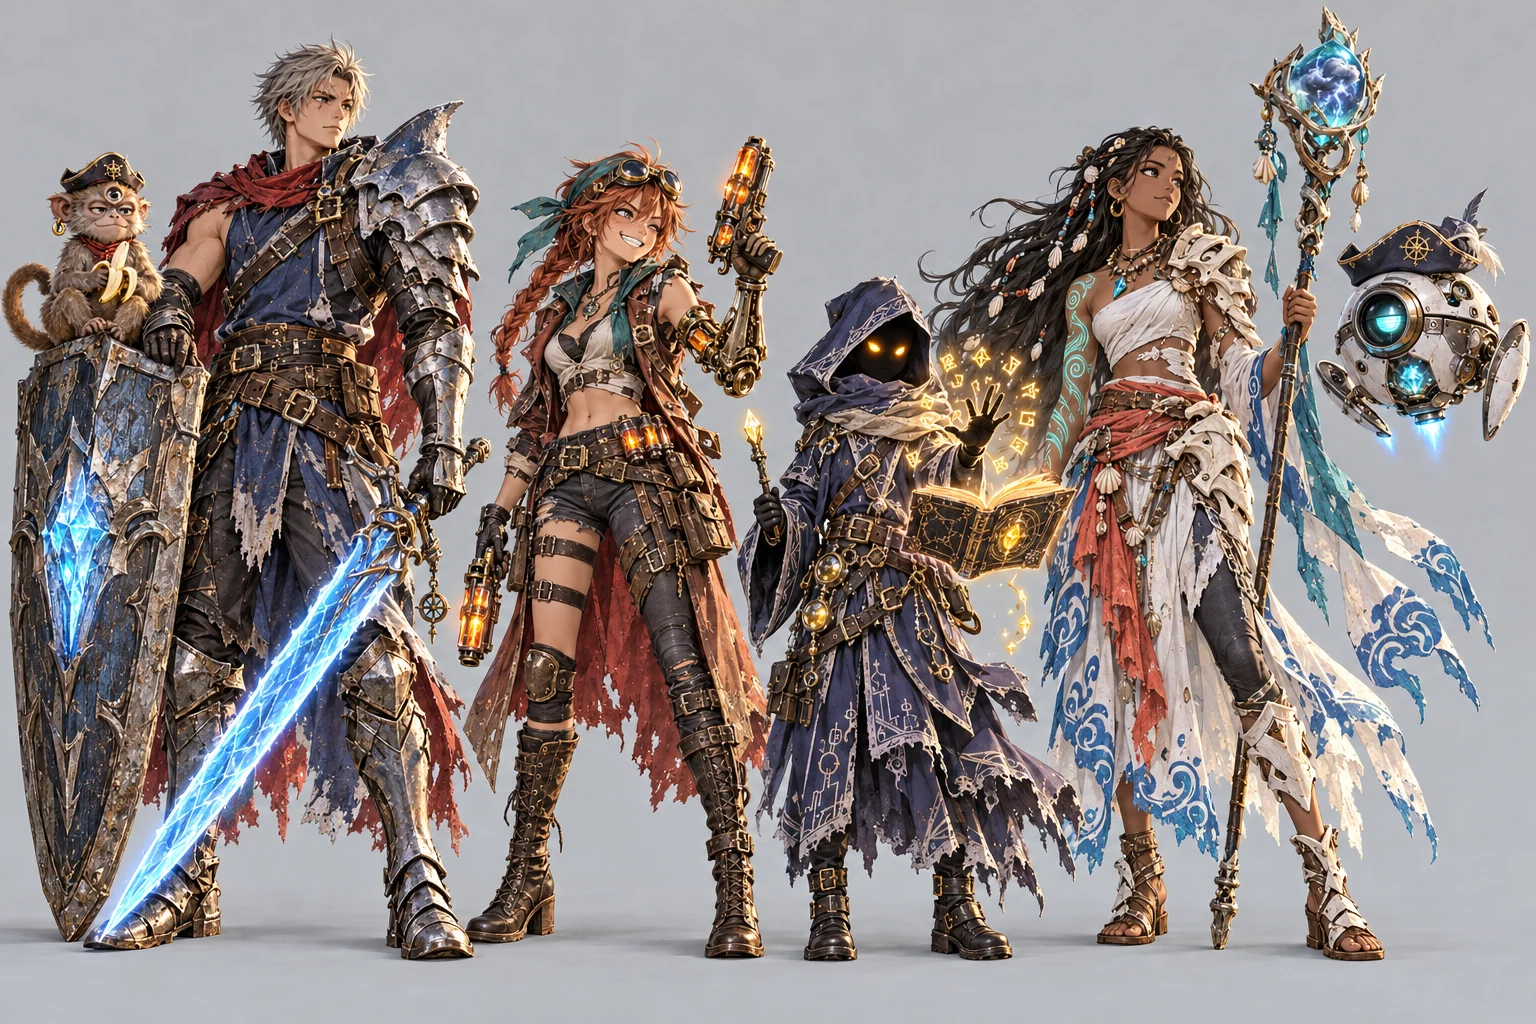
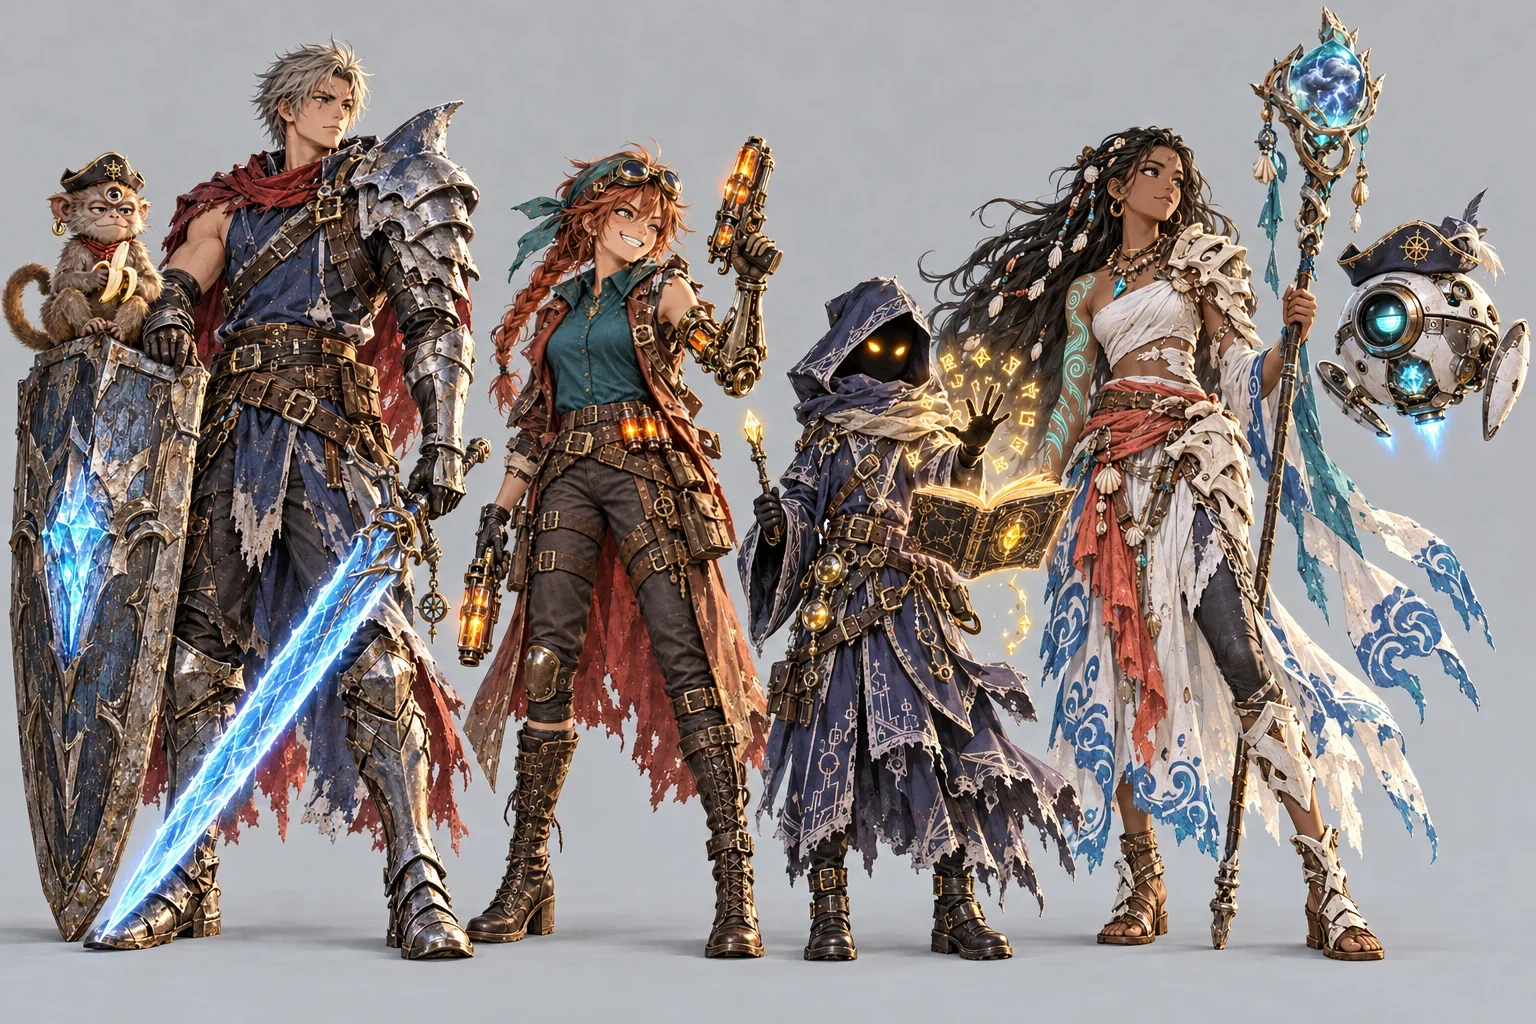
Wave 10, Section C: Wren covered up in the eight big pictures
title_art, story_deck, story_fall, story_descent, story_crystal_remade,
key_art, cast_lineup and battle_mock: a crop around Wren was edited
(attempt 1 each) and pasted back through a soft mask limited to what
changed on her, so every pixel outside the crop is unchanged before the
WebP export. battle_mock exported at quality 82 to stay under 500 KB.
Also re-saved Section A/B review JPEGs smaller. Nothing flagged.

Changed region(s): [[0.3438, 0.25, 0.5, 0.7188]]

diff --git a/art/waves/wave-10-wren-dressed.md b/art/waves/wave-10-wren-dressed.md
@@ -63,14 +63,14 @@ Each of these is an edit of the picture at the same path, changing Wren's clothe
 
 | ☐ | Picture | Where Wren is | Where the game shows it |
 |---|---|---|---|
-| ☐ | `scenes/title_art.webp` | left of center, aiming a blaster | the title screen |
-| ☐ | `scenes/story_deck.webp` | at the ship's wheel, on the left | the opening, on the deck |
-| ☐ | `scenes/story_fall.webp` | swinging on a rope, on the right | the opening, after the galleon rams the ship |
-| ☐ | `scenes/story_descent.webp` | on the rope, between Cade and Knox | the ride down to the grotto |
-| ☐ | `scenes/story_crystal_remade.webp` | second from the left, reaching up | the chapter 1 ending |
-| ☐ | `anchors/key_art.webp` | the same as the title art | a fallback when a picture is missing, and every wave's style reference |
-| ☐ | `anchors/cast_lineup.webp` | second from the left, beside Cade | every wave's style reference |
-| ☐ | `anchors/battle_mock.webp` | right of center, firing | a style anchor (`STYLE.md`) |
+| ☑ | `scenes/title_art.webp` | left of center, aiming a blaster | the title screen |
+| ☑ | `scenes/story_deck.webp` | at the ship's wheel, on the left | the opening, on the deck |
+| ☑ | `scenes/story_fall.webp` | swinging on a rope, on the right | the opening, after the galleon rams the ship |
+| ☑ | `scenes/story_descent.webp` | on the rope, between Cade and Knox | the ride down to the grotto |
+| ☑ | `scenes/story_crystal_remade.webp` | second from the left, reaching up | the chapter 1 ending |
+| ☑ | `anchors/key_art.webp` | the same as the title art | a fallback when a picture is missing, and every wave's style reference |
+| ☑ | `anchors/cast_lineup.webp` | second from the left, beside Cade | every wave's style reference |
+| ☑ | `anchors/battle_mock.webp` | right of center, firing | a style anchor (`STYLE.md`) |
 
 - She is small in `story_descent`, so the edit there is mostly the shirt's color and her trousers.
 - `story_deck`, `story_fall` and `story_crystal_remade` are also films' first frames: Section D exports them.
